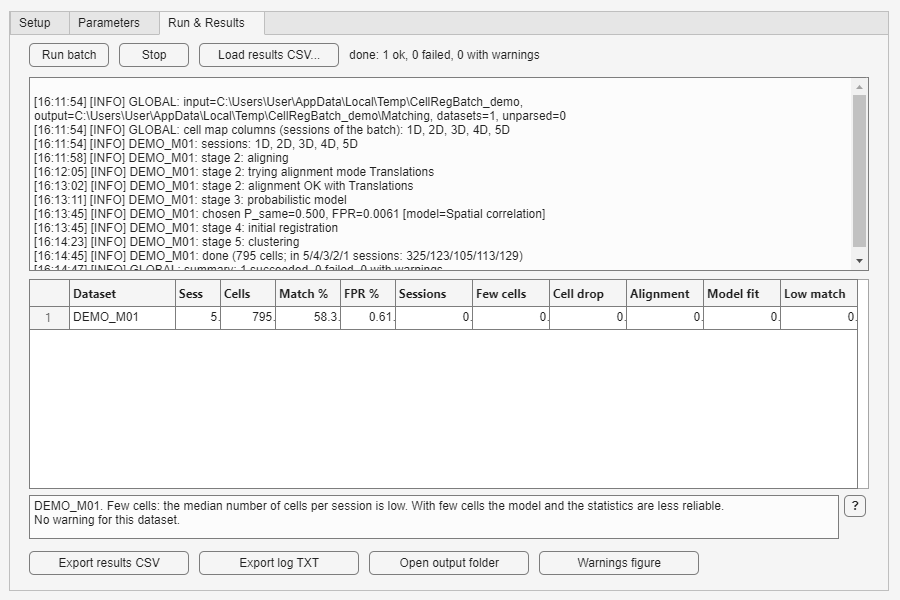
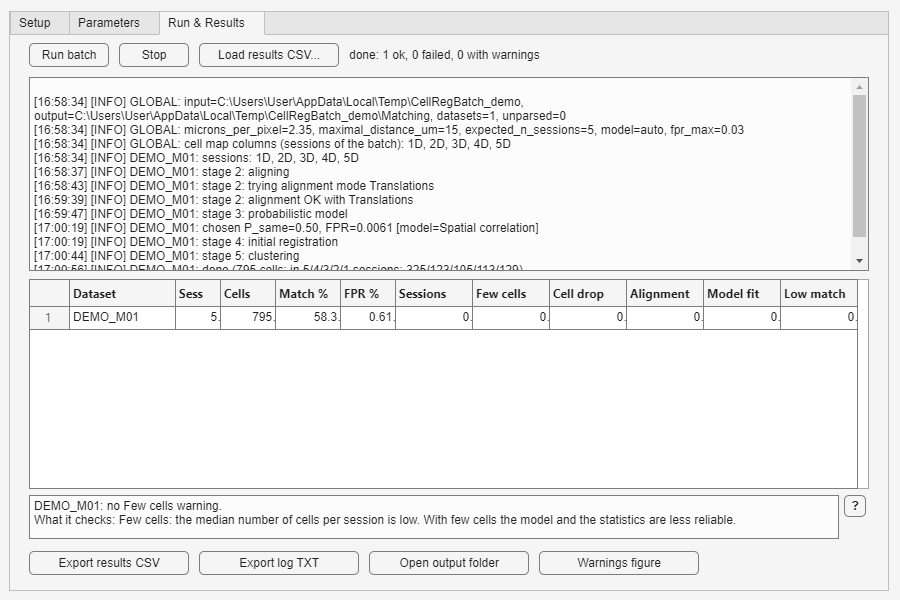
docs: tables across runs, CaImAn loading, fixed code block
The manuals and guides say that the tables cover the whole output
folder and how to start from nothing; the CaImAn example shows where
A and dims come from and how to keep the accepted components; the
script example no longer turns parallel processing off by default; a
broken code fence in the Russian manual is closed; the results
screenshot shows the new decode text.

diff --git a/Docs/MANUAL.md b/Docs/MANUAL.md
@@ -57,7 +57,12 @@ Reshape it in Python before you save the file:
 
 ```python
 import numpy as np, scipy.io
-d1, d2 = dims                                  # image height and width
+from caiman.source_extraction.cnmf.cnmf import load_CNMF
+
+cnm = load_CNMF('CA1_M01_day1.hdf5')           # your saved CaImAn result
+A, (d1, d2) = cnm.estimates.A, cnm.estimates.dims
+if cnm.estimates.idx_components is not None:   # keep the accepted components only
+    A = A[:, cnm.estimates.idx_components]
 fp = A.toarray().reshape(d1, d2, -1, order='F').transpose(2, 0, 1)   # cells x d1 x d2
 scipy.io.savemat('CA1_M01_1D.mat', {'footprints': fp.astype('float32')})
 ```
@@ -216,7 +221,7 @@ addpath(genpath('CellReg')); addpath(genpath('Helper')); addpath(genpath('BatchC
 cfg = batch_default_config();             % or: cfg = config_from_json('my_config.json');
 cfg.cellreg.microns_per_pixel = 1.6;      % set this for your microscope
 cfg.cellreg.expected_n_sessions = 4;      % set this for your experiment
-cfg.cellreg.use_parallel_processing = false;   % if you have no Parallel Computing Toolbox
+% cfg.cellreg.use_parallel_processing = false;   % without the Parallel Computing Toolbox
 
 % Check the folder first (the Scan of the GUI):
 scan = scan_input_folder('D:\data\5_Filters');
@@ -252,7 +257,8 @@ does not read `cfg.io.input_folder`.
 | `session_names` | The session names of the batch: the columns of every cell map (1.5). |
 | `anomalies` | `.flags` (six warnings per dataset: 0 = none, 1 = yellow, 2 = red), `.metrics` (the values behind them), `.details` (one element per fired rule, the rows of 5.2), `.batch` (median and limits of the match comparison). |
 | `output_dir`, `log_file`, `results_csv`, `detail_csv`, `match_stats_csv`, `warnings_png` | Paths of the output folder and files. `warnings_png` is empty if the figure failed. |
-| `n_succeeded`, `n_failed`, `n_with_warnings` | Counts. A dataset counts as "with warnings" if any warning is yellow or red. |
+| `n_succeeded`, `n_failed`, `n_with_warnings` | Counts for this run. A dataset counts as "with warnings" if any warning is yellow or red. |
+| `n_kept` | Number of datasets from earlier runs in the tables (5.1). |
 | `stopped` | `true` if the batch stopped early. |
 
 ---
@@ -459,6 +465,8 @@ hidden figures fill the memory during a long batch.
     ├── _batch_warnings_detail.csv             one row per fired warning rule
     ├── _match_statistics.csv                  cells found in k sessions, per dataset
     ├── _batch_warnings.png                    picture of all warnings
+    ├── _batch_results.mat                     results of all runs, for the next run
+    ├── _cellmap_columns.txt                   session names = cell map columns
     ├── <dataset>_cellmap.csv                  cell map of each dataset
     └── <dataset>/                             for example CC_H02/
         ├── cellRegistered_YYYYMMDD_HHMMSS.mat
@@ -468,7 +476,15 @@ hidden figures fill the memory during a long batch.
 
 Each run overwrites `_batch_config.json`, `_batch_results.csv`,
 `_batch_warnings_detail.csv`, `_match_statistics.csv` and
-`_batch_warnings.png`. The CSV files round numbers to 3 decimals. If a CSV
+`_batch_warnings.png`.
+
+**The tables cover the whole output folder.** A run of some datasets keeps
+the other datasets of earlier runs in the tables and in the figure. The batch
+takes their results from `_batch_results.mat`. A dataset whose folder you
+deleted is left out. The log lists the datasets from earlier runs, and warns
+if they were registered with other settings. The batch comparison of
+`low_match` then also uses them. To start again from nothing, delete the
+output folder. The CSV files round numbers to 3 decimals. If a CSV
 file is open in another program (for example Excel), the batch tries again 3
 times. Then it writes a copy with a
 time stamp in the name and gives a MATLAB warning.
@@ -565,8 +581,8 @@ dataset.
 - `<dataset>_cellmap.csv`, in the output folder: the cell map
   (`cell_to_index_map`, see 7.1) as a CSV file without a header. Each row is
   one registered cell. Each column is one session name of the batch, in
-  session order (1.5). The log line `cell map columns` and
-  `summary.session_names` list the columns. The value is the number of the
+  session order (1.5). `_cellmap_columns.txt` (one name per line), the log
+  line `cell map columns` and `summary.session_names` list the columns. The value is the number of the
   cell in the input file of that session, counted from 1. 0 = not found. A
   missing session is a column of zeros.
 - `cellRegistered_*.mat`: the CellReg registration result (7.1). It has the

diff --git a/Docs/GUIDE_ru.md b/Docs/GUIDE_ru.md
@@ -198,6 +198,10 @@ summary.results(1).match_stats(1:2)      % клетки всего, клетки
 9. Чтобы остановить батч раньше, нажмите **Stop**. Батч закончит текущее
    животное и остановится.
 
+Батч можно перезапустить только для части животных, например после
+исправления их файлов. Таблицы и картинка по-прежнему покажут остальных
+животных из прежних прогонов. Чтобы начать с нуля, удалите выходную папку.
+
 Если MATLAB не хватает памяти, уменьшите число параллельных воркеров. Перед
 **Run batch** выполните в Command Window `parpool(4)`. Или снимите галочку
 **Use parallel processing**.

diff --git a/Docs/GUIDE.md b/Docs/GUIDE.md
@@ -189,6 +189,10 @@ output folder. To keep old results, copy them to another folder first.
 9. To stop early, click **Stop**. The batch finishes the current animal and
    then stops.
 
+You can run the batch again for some animals only, for example after you fix
+their files. The tables and the figure still show the other animals of
+earlier runs. To start from nothing, delete the output folder.
+
 If MATLAB runs out of memory, use fewer parallel workers. Before you click
 **Run batch**, run `parpool(4)` in the Command Window. Or clear **Use parallel
 processing**.
